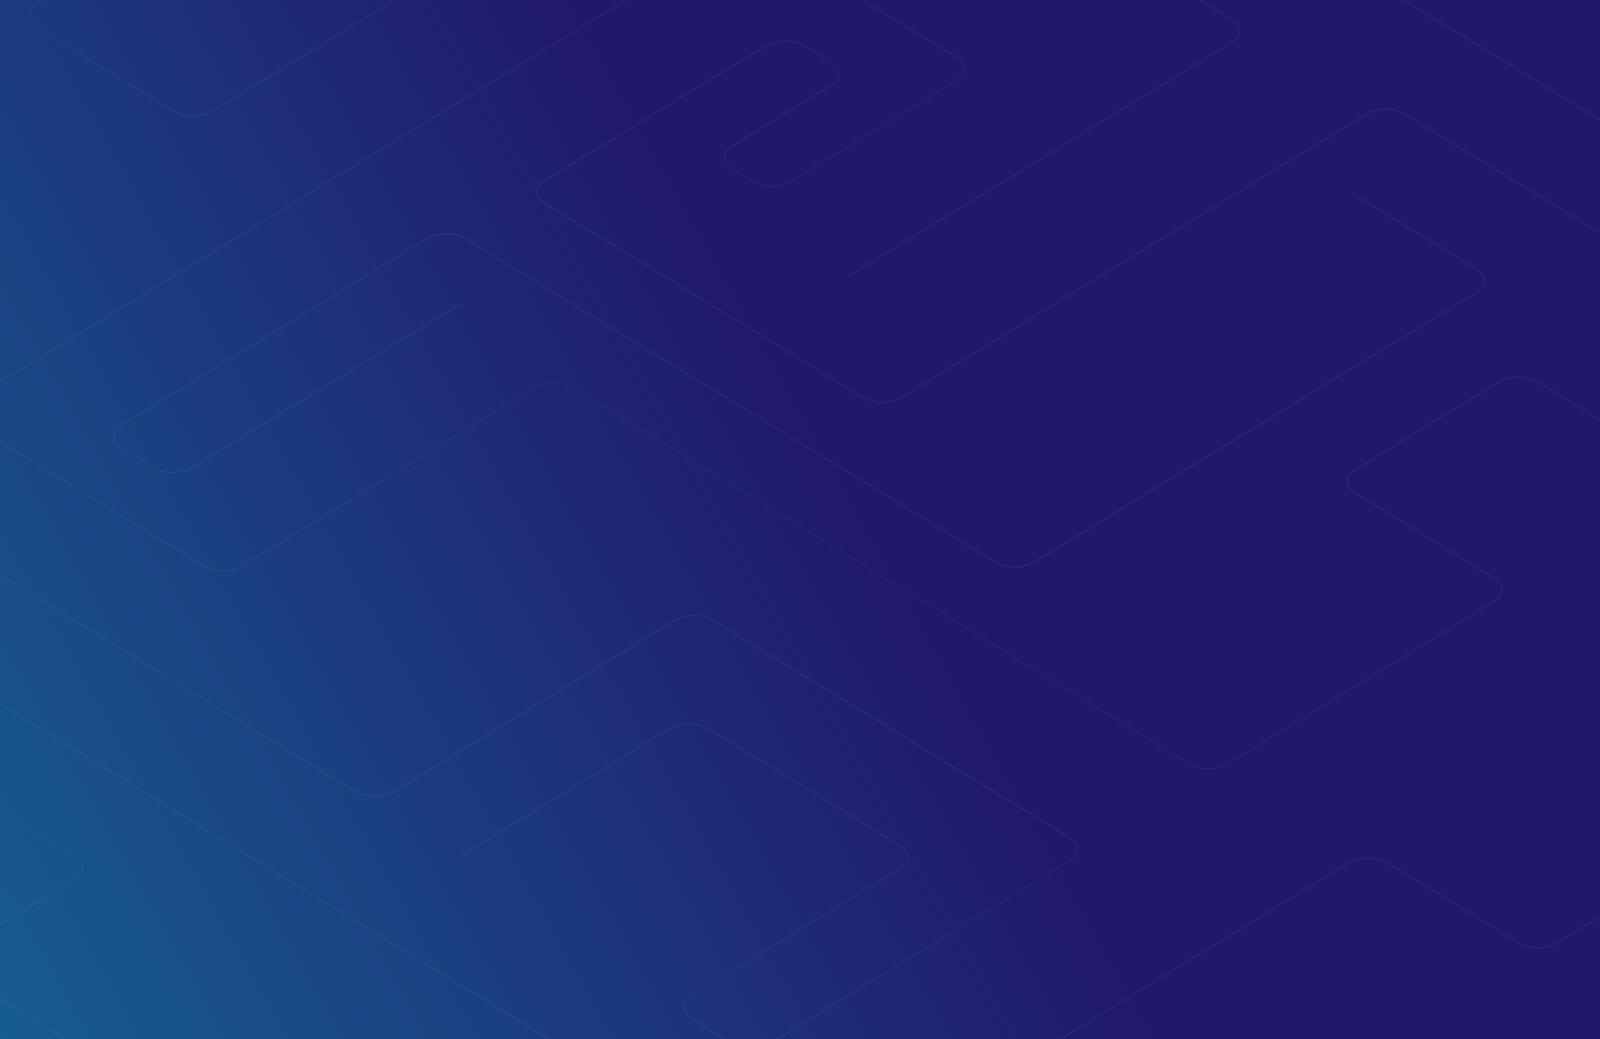
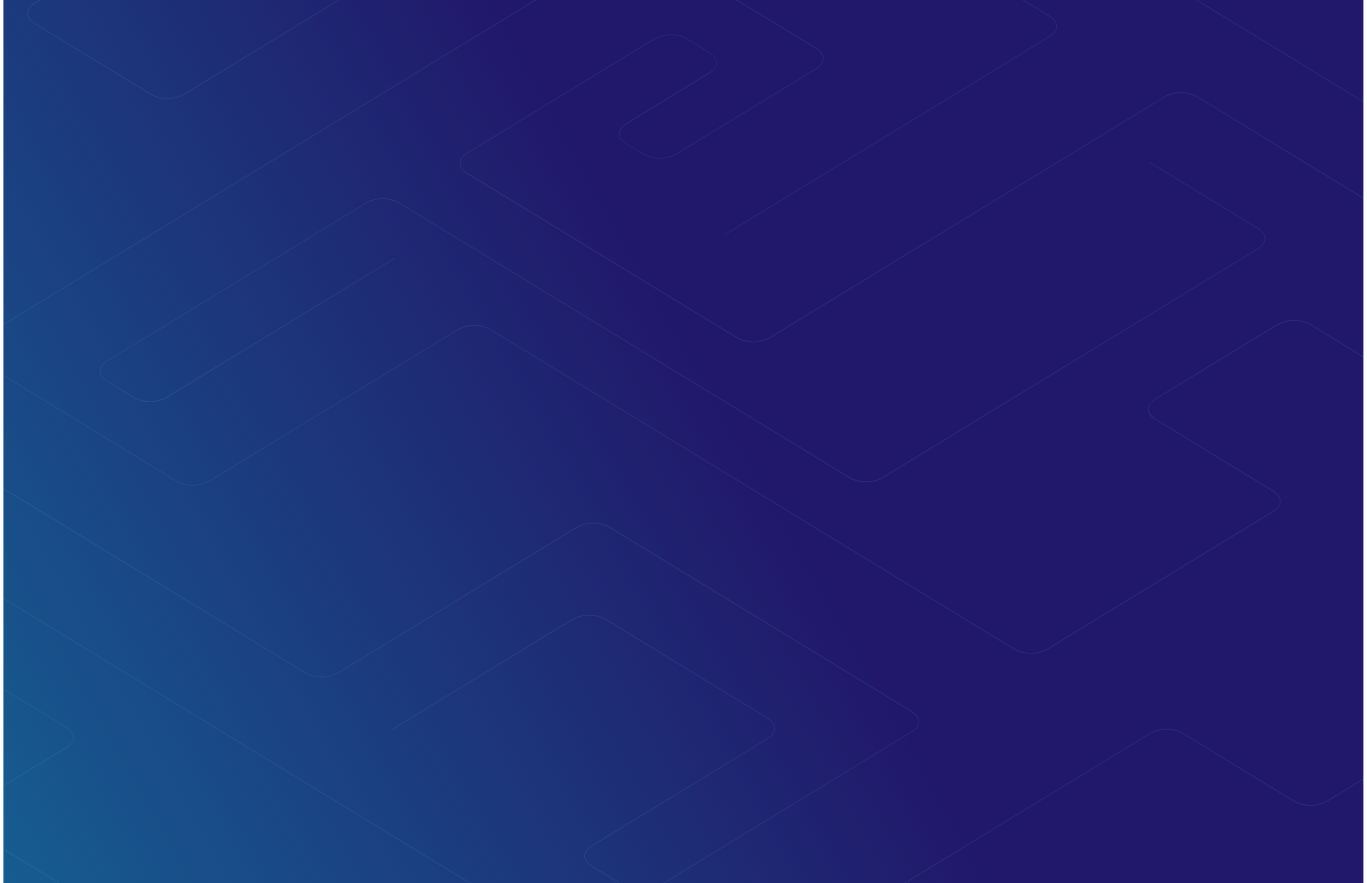
header bg problem fixed

Changed region(s): [[0.9832, 0.0, 1.0, 1.0]]

diff --git a/assets/css/_header.scss b/assets/css/_header.scss
@@ -5,10 +5,10 @@
 #lg_header {
     width: 100%;
     height: 103.9rem;
-    background-image: url("./../../assets/image/lg_header_bg.png");
-    background-size: 100% 100%;
+    background-image: url("./../../assets/image/lg_header_bg.svg");
+    background-size: 100%;
     background-repeat: no-repeat;
-    background-position: center center;
+    background-position: center;
 
 
     .top {

diff --git a/assets/css/style.css b/assets/css/style.css
@@ -53,10 +53,10 @@ html {
 #lg_header {
   width: 100%;
   height: 103.9rem;
-  background-image: url("./../../assets/image/lg_header_bg.png");
-  background-size: 100% 100%;
+  background-image: url("./../../assets/image/lg_header_bg.svg");
+  background-size: 100%;
   background-repeat: no-repeat;
-  background-position: center center;
+  background-position: center;
 }
 
 #lg_header .top {
